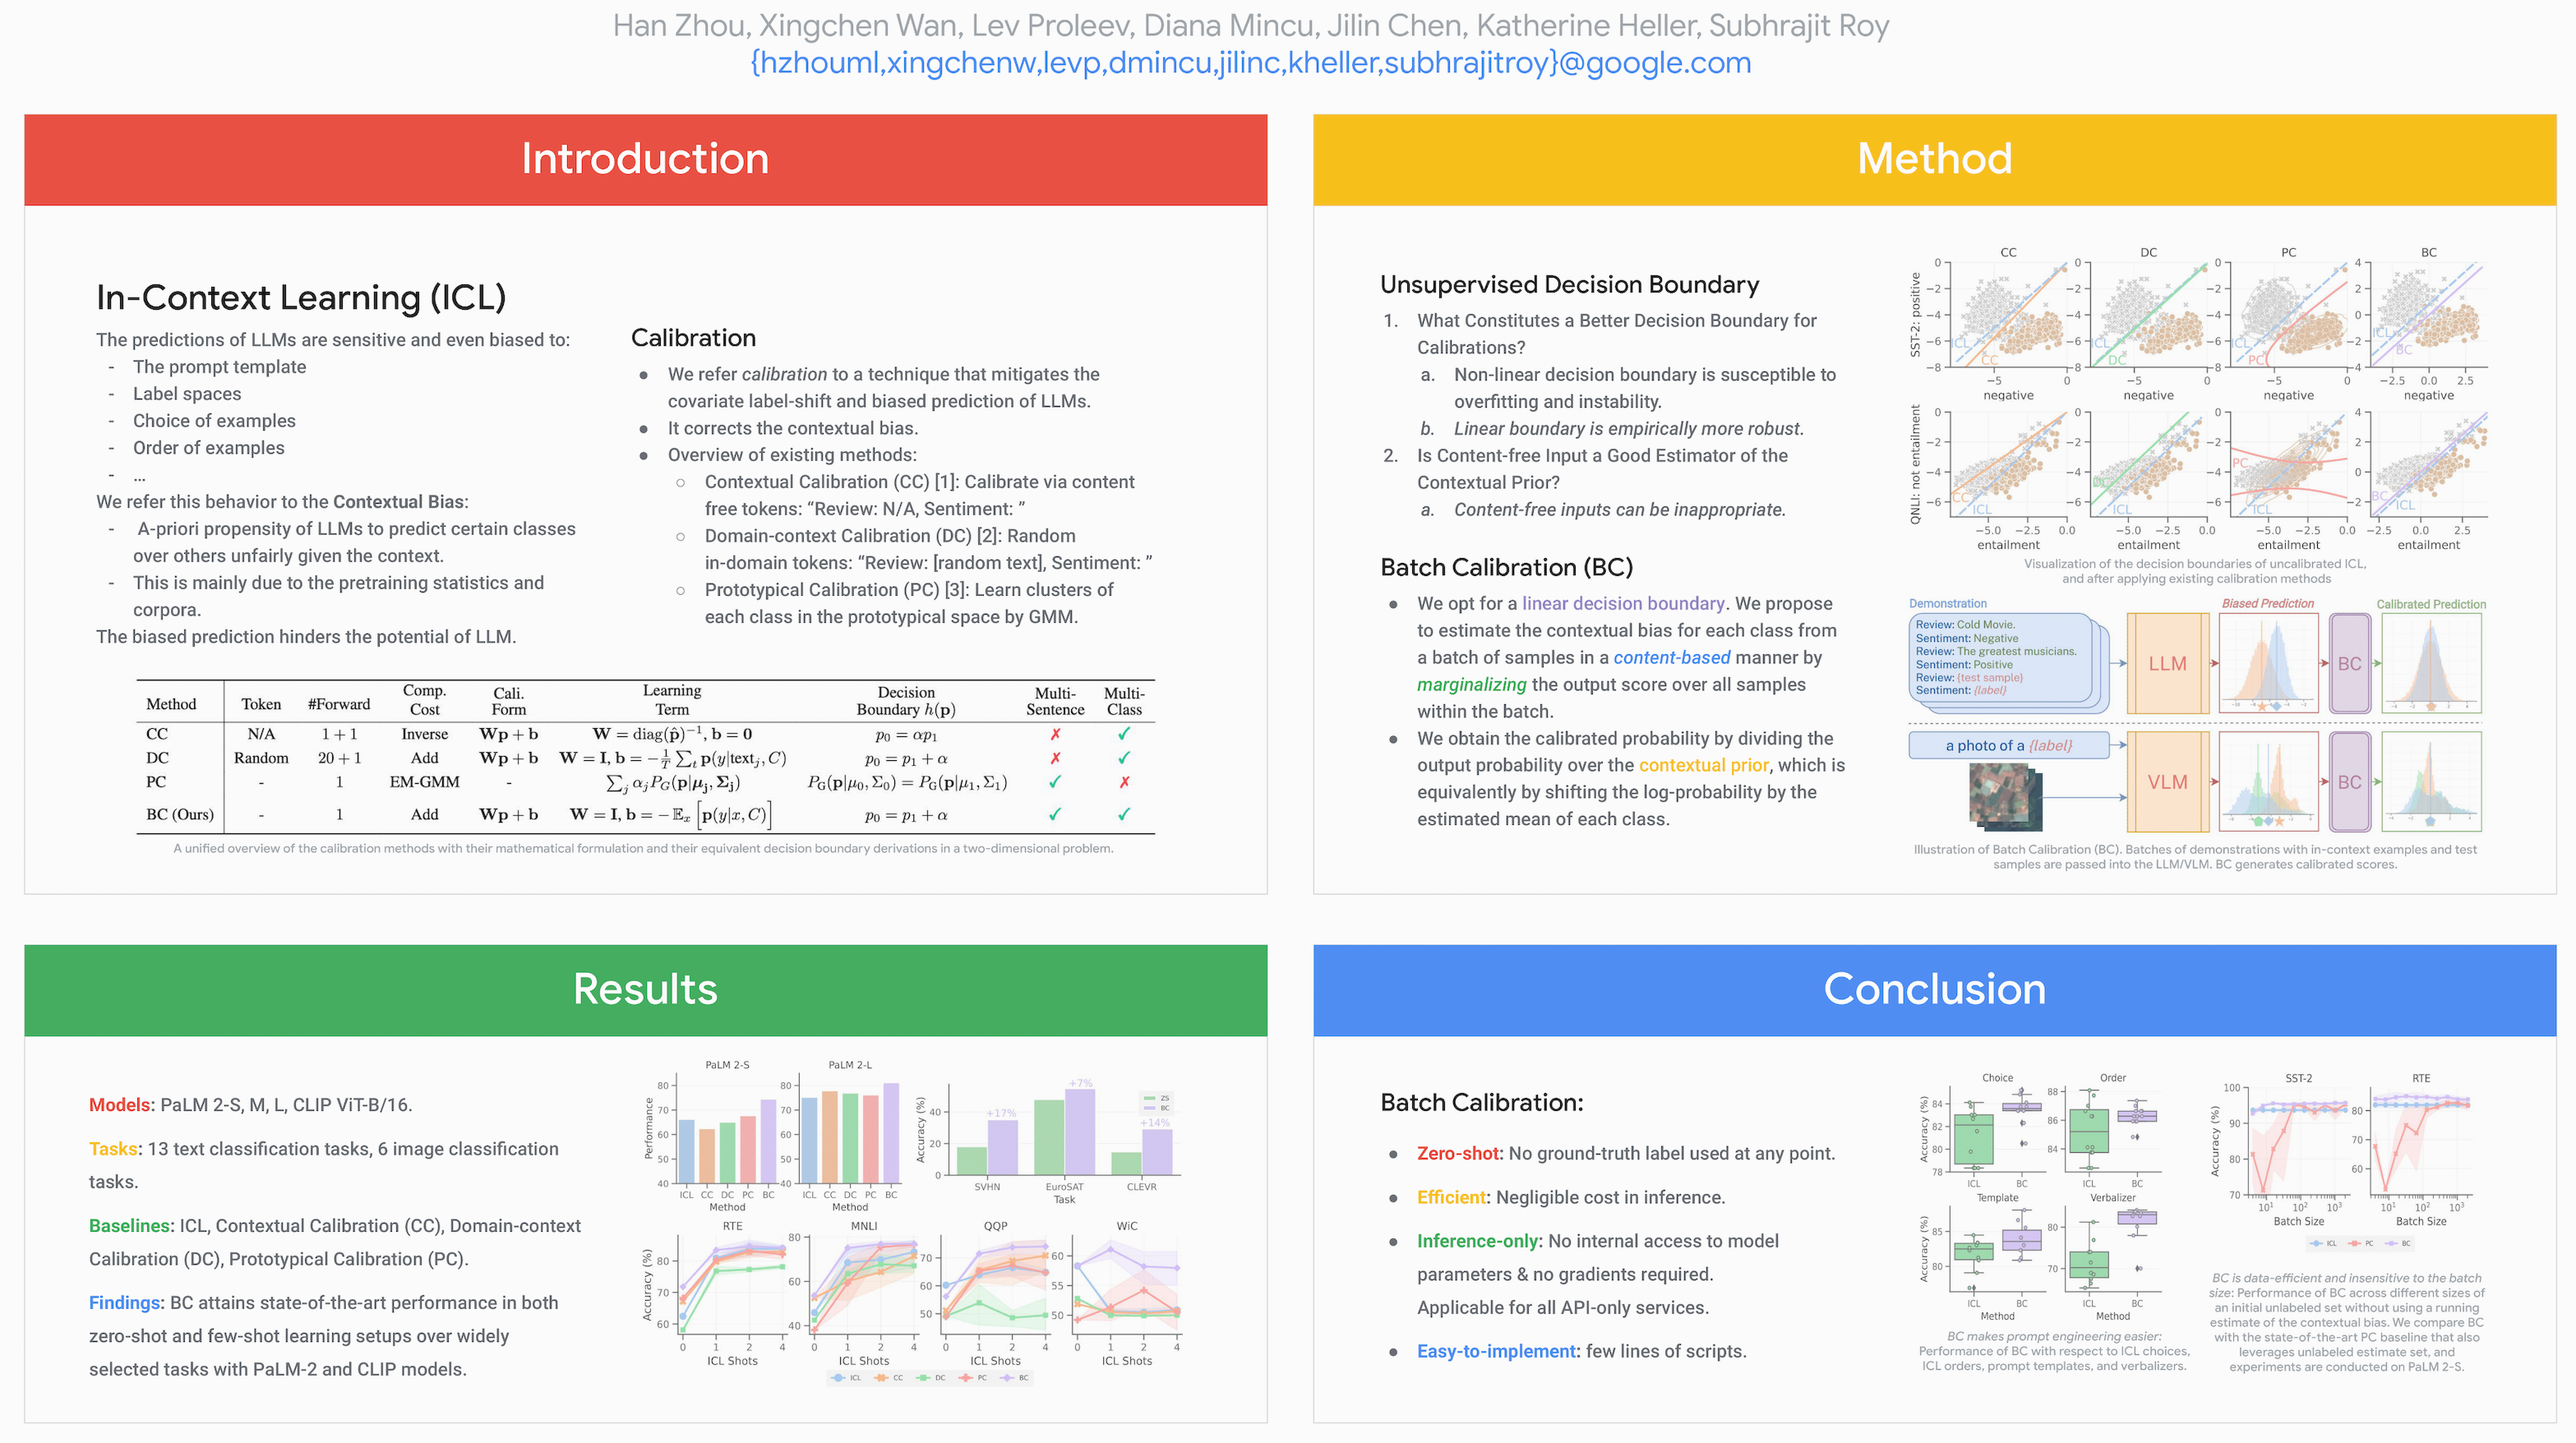
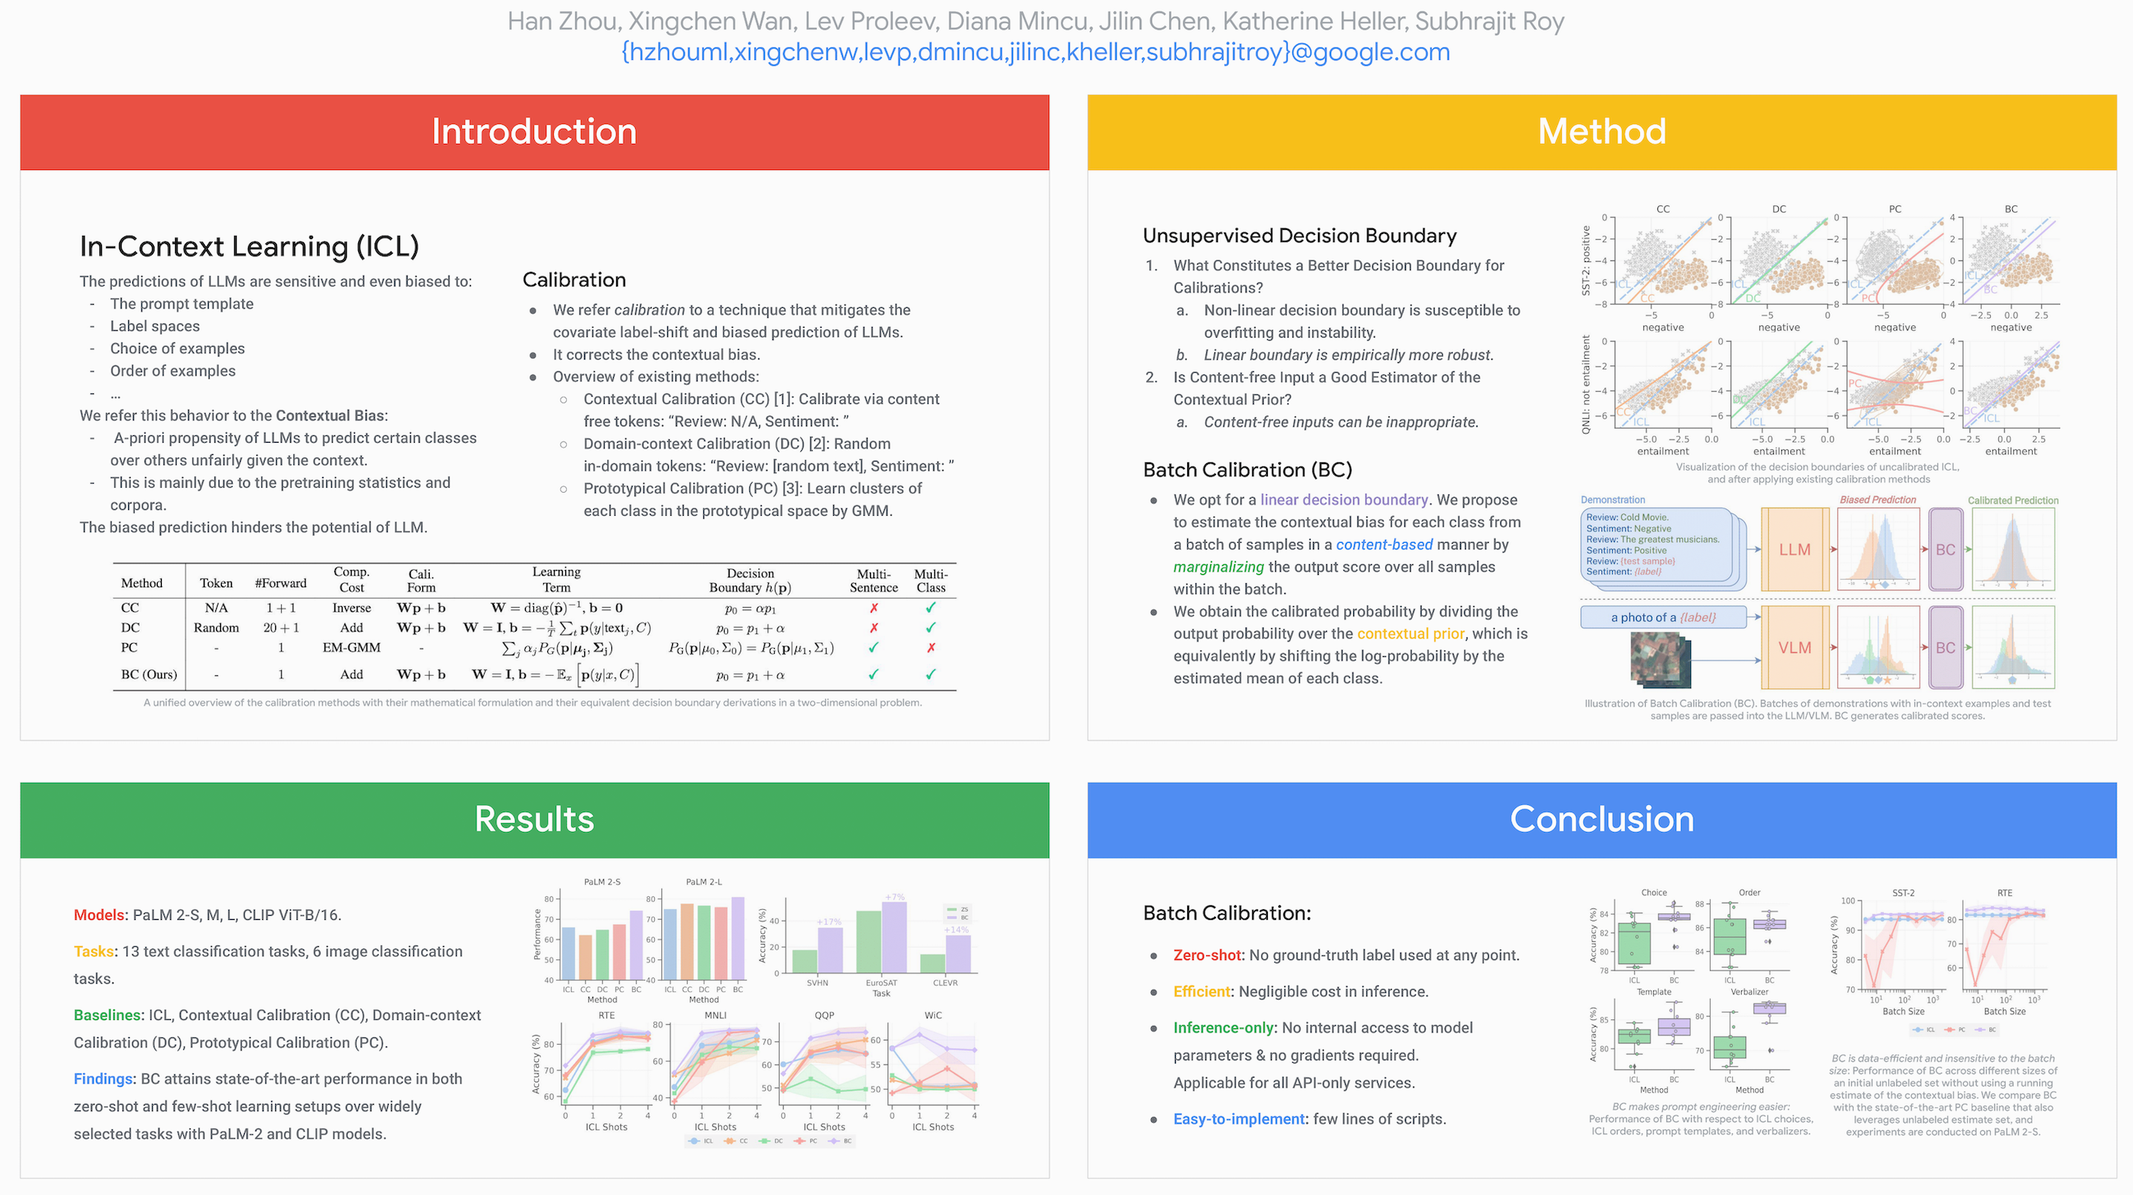
include gifs

Changed region(s): [[0.7176, 0.0928, 0.78, 0.1237]]

diff --git a/content/publication/bc/index.md b/content/publication/bc/index.md
@@ -1,5 +1,5 @@
 ---
-abstract: "![Prompting and in-context learning (ICL) have become efficient learning paradigms for large language models (LLMs). However, LLMs suffer from prompt brittleness and various bias factors in the prompt, including but not limited to the formatting, the choice verbalizers, and the ICL examples. To address this problem that results in unexpected performance degradation, calibration methods have been developed to mitigate the effects of these biases while recovering LLM performance. In this work, we first conduct a systematic analysis of the existing calibration methods, where we both provide a unified view and reveal the failure cases. Inspired by these analyses, we propose Batch Calibration (BC), a simple yet intuitive method that controls the contextual bias from the batched input, unifies various prior approaches and effectively addresses the aforementioned issues. BC is zero-shot, inference-only, and incurs negligible additional costs. In the few-shot setup, we further extend BC to allow it to learn the contextual bias from labeled data. We validate the effectiveness of BC with PaLM 2-(S, M, L) and CLIP models and demonstrate state-of-the-art performance over previous calibration baselines across more than 10 natural language understanding and image classification tasks.](featured_animation.gif)"
+abstract: "![Prompting and in-context learning (ICL) have become efficient learning paradigms for large language models (LLMs). However, LLMs suffer from prompt brittleness and various bias factors in the prompt, including but not limited to the formatting, the choice verbalizers, and the ICL examples. To address this problem that results in unexpected performance degradation, calibration methods have been developed to mitigate the effects of these biases while recovering LLM performance. In this work, we first conduct a systematic analysis of the existing calibration methods, where we both provide a unified view and reveal the failure cases. Inspired by these analyses, we propose Batch Calibration (BC), a simple yet intuitive method that controls the contextual bias from the batched input, unifies various prior approaches and effectively addresses the aforementioned issues. BC is zero-shot, inference-only, and incurs negligible additional costs. In the few-shot setup, we further extend BC to allow it to learn the contextual bias from labeled data. We validate the effectiveness of BC with PaLM 2-(S, M, L) and CLIP models and demonstrate state-of-the-art performance over previous calibration baselines across more than 10 natural language understanding and image classification tasks.](/images/featured_animation.gif)"
 slides: ""
 url_pdf: "https://arxiv.org/pdf/2309.17249.pdf"
 publication_types:
